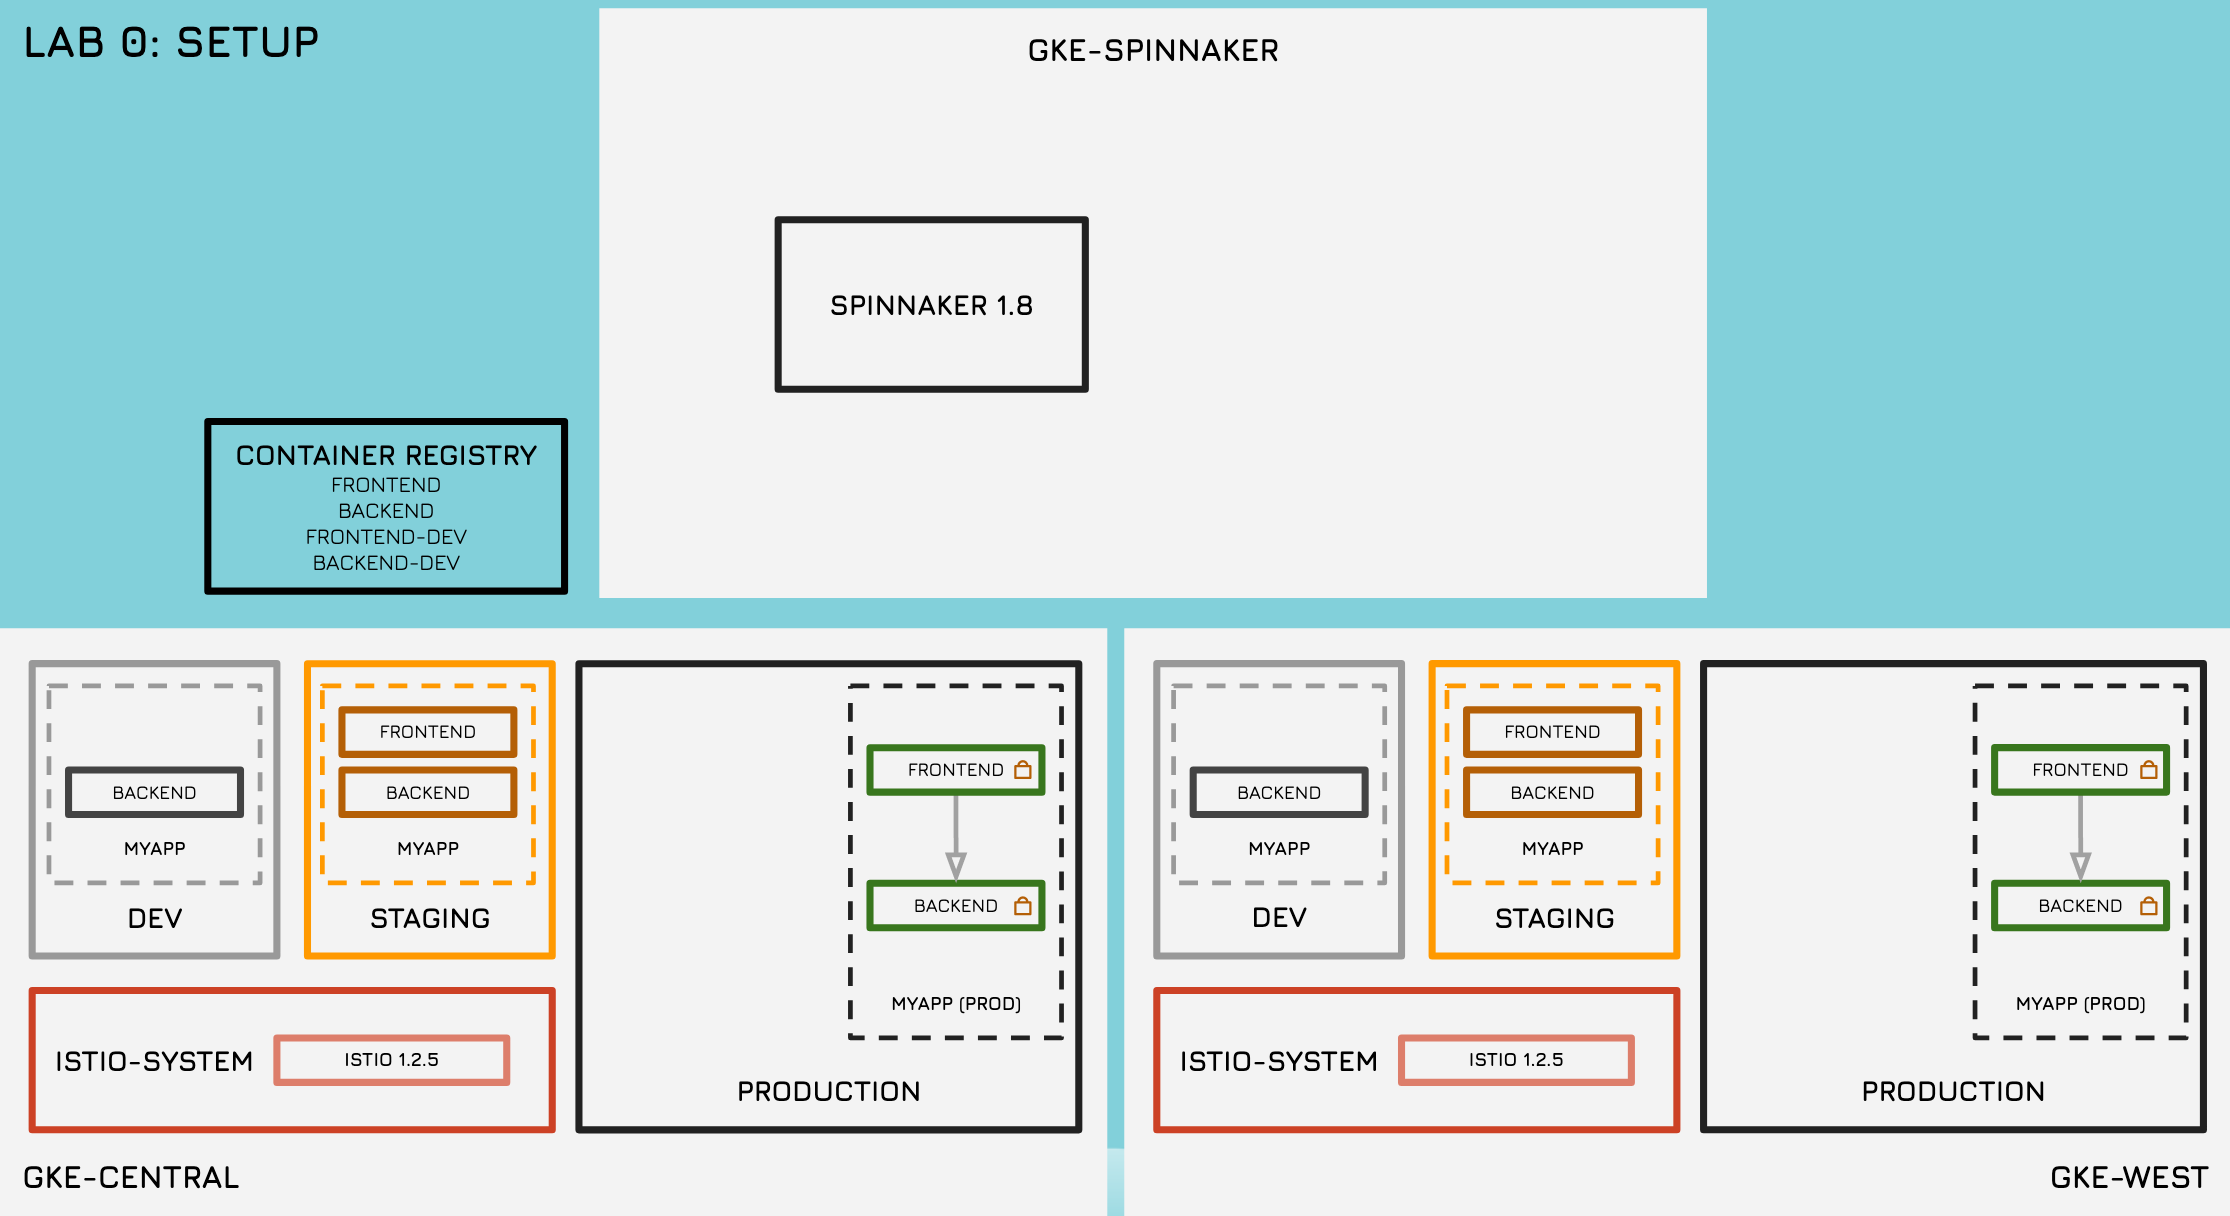
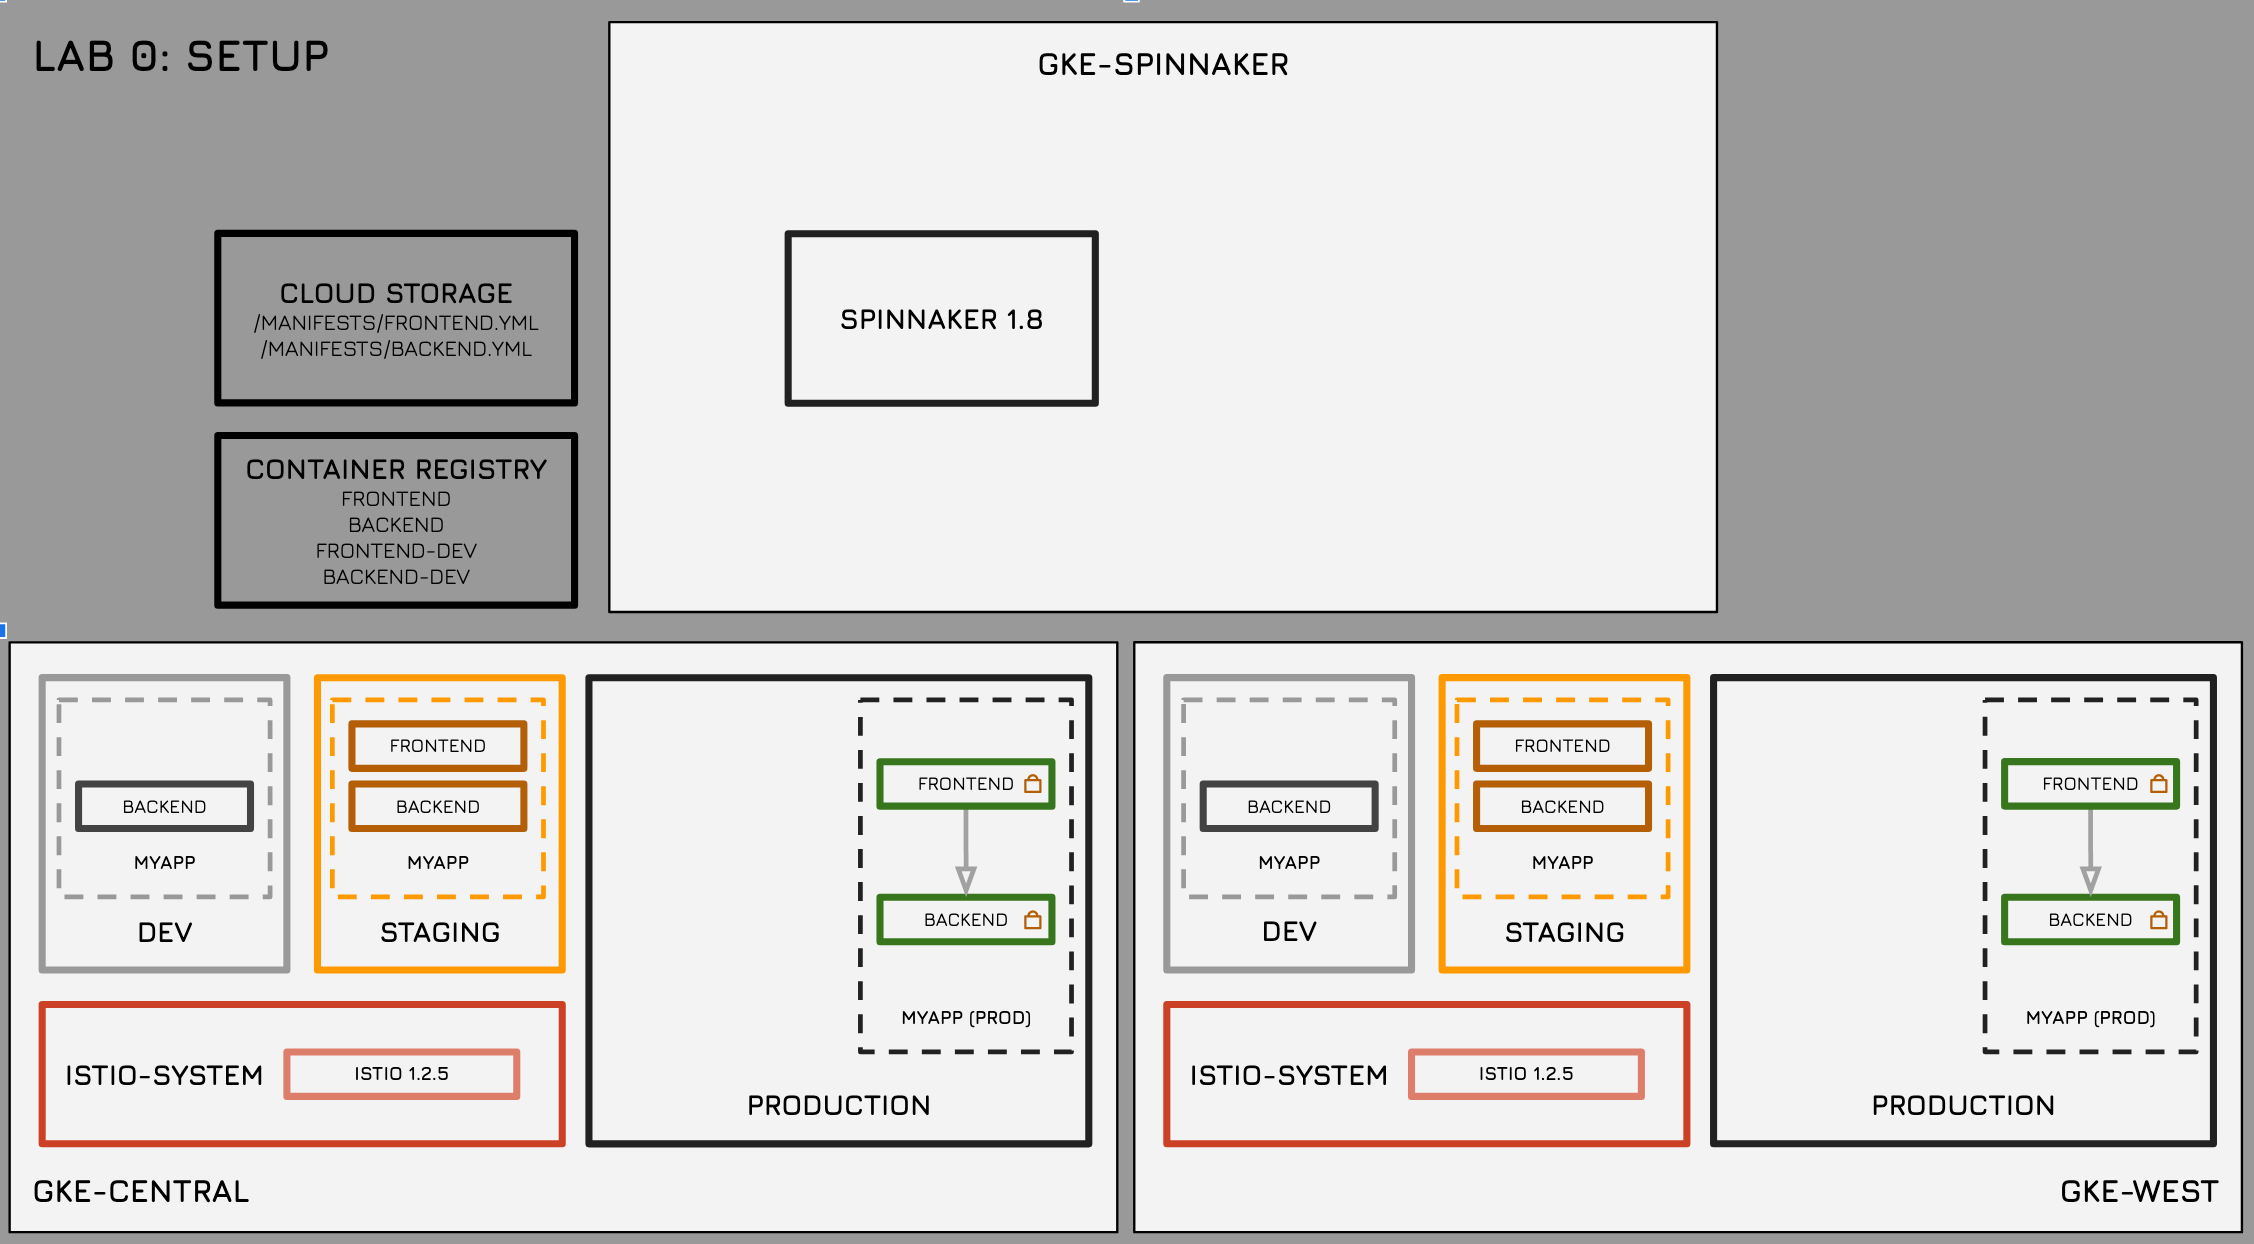
Better diagram

diff --git a/README.md b/README.md
@@ -1,10 +1,6 @@
 # Fairwinds Advanced Kubernetes Workshop
 
-![Lab Diagram](diagrams/lab-diag.png)*Lab Diagram*
-
 # Lab Outline
-
-**Total estimated time: 1 hr 30 mins**
 
 ## Lab 0 - Setup
 
